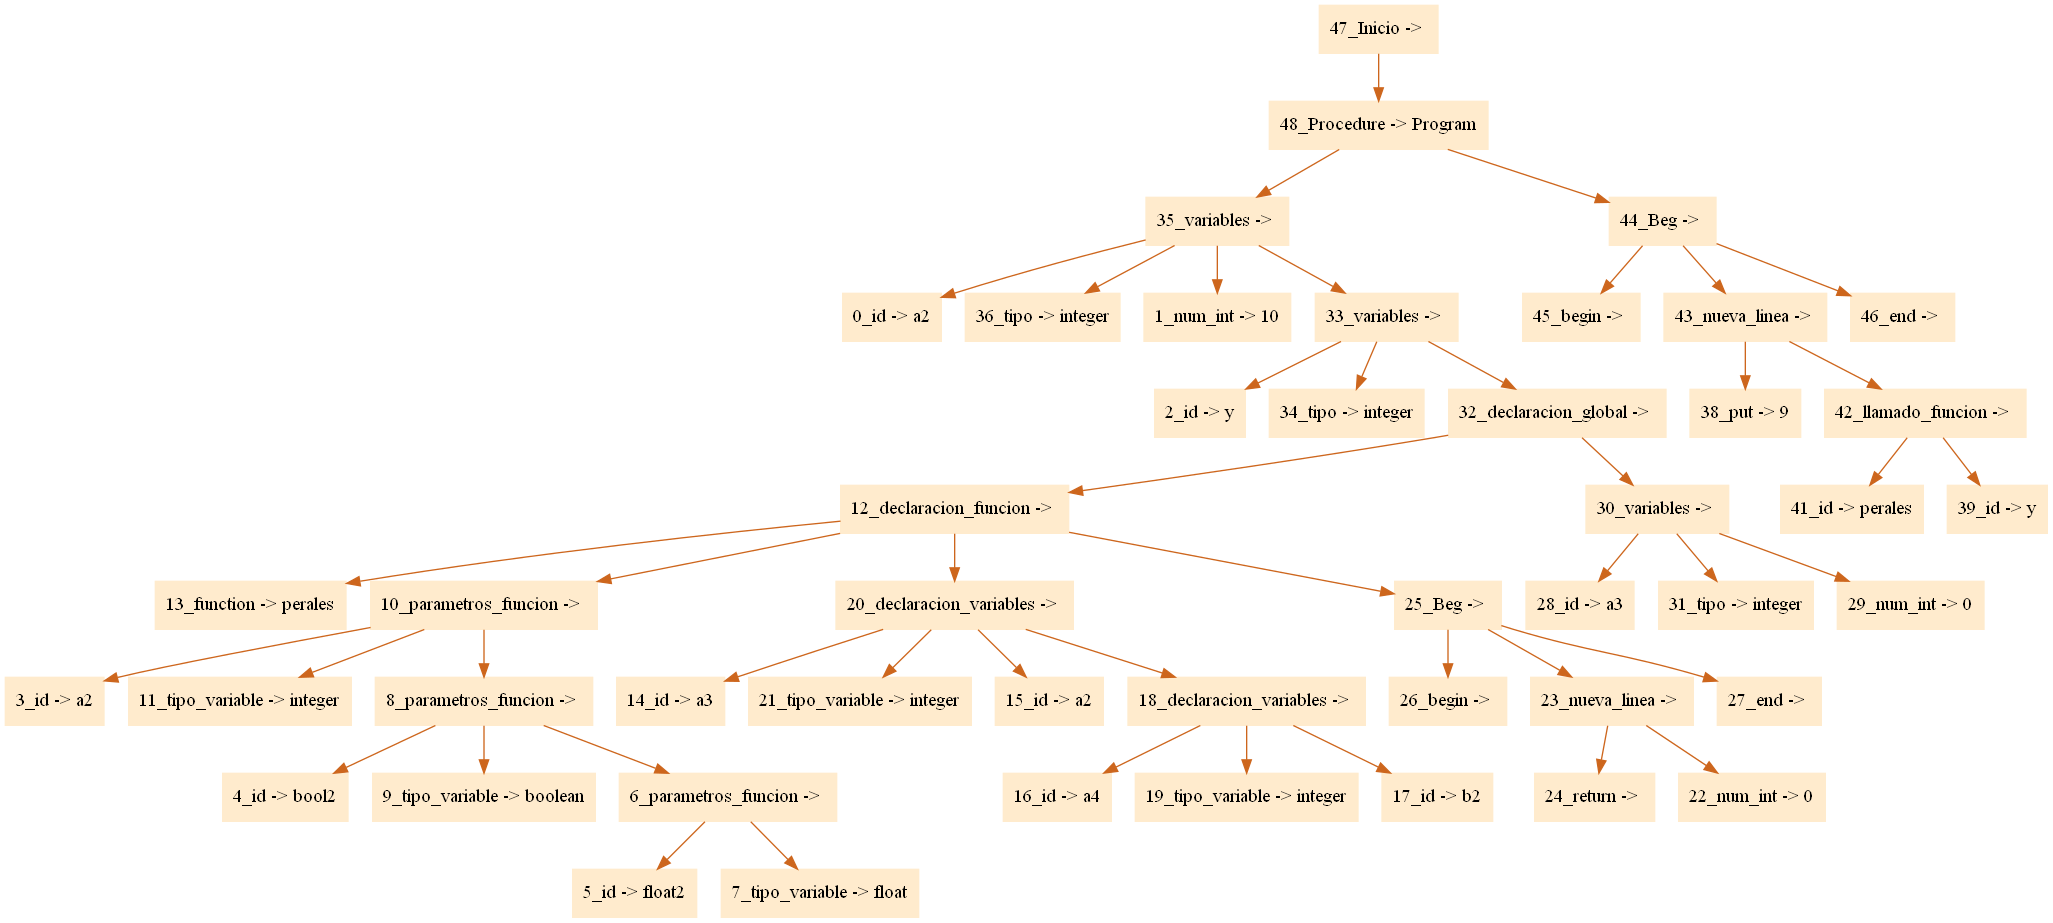
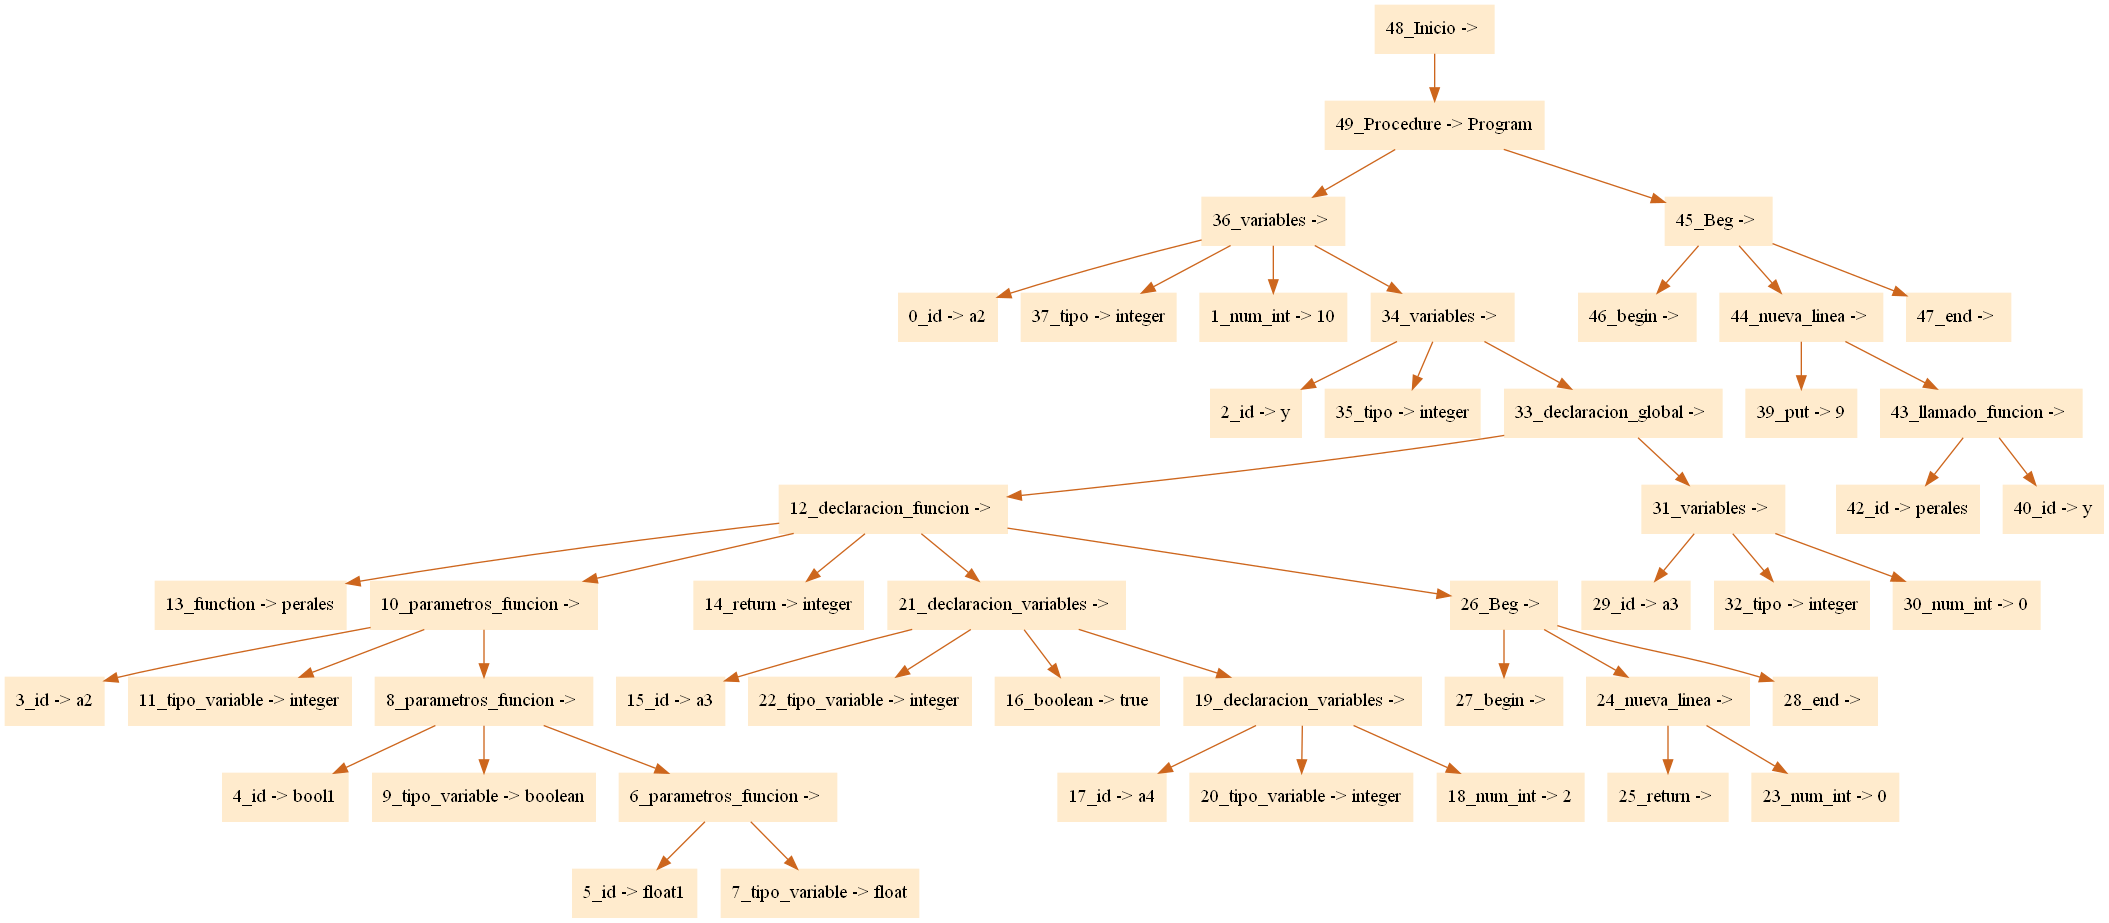
dominio y rango de funciones y agregar variables declaradas en funciones

diff --git a/ProyectoCompiladores/src/proyectocompiladores/InterfazCompilador.java b/ProyectoCompiladores/src/proyectocompiladores/InterfazCompilador.java
@@ -705,7 +705,8 @@ public class InterfazCompilador extends javax.swing.JFrame {
                 SymbolTable.insertar2(id, tipo, (Object) valor, false, false, ambito);
             }
             if (hoja.getNombre().equals("declaracion_funcion")) {
-                recorrerDominio(hoja, "", hoja.getHijos().get(0).getValor(), ambito + "." + hoja.getHijos().get(0).getValor());
+                recorrerDominio(hoja, "", hoja.getHijos().get(0).getValor(), ambito + "." + hoja.getHijos().get(0).getValor(),
+                        hoja.getHijos().get(2).getValor());
             }
             recorrer(hoja, ambito);
         }
@@ -732,7 +733,7 @@ public class InterfazCompilador extends javax.swing.JFrame {
         return contador;
     }
 
-    public void recorrerDominio(Nodo padre, String tipo, String id, String ambito) {
+    public void recorrerDominio(Nodo padre, String tipo, String id, String ambito, String rango) {
         for (Nodo hoja : padre.getHijos()) {
             if (hoja.getNombre().equals("parametros_funcion")) {
                 tipo += hoja.getHijos().get(1).getValor() + "x";
@@ -746,10 +747,24 @@ public class InterfazCompilador extends javax.swing.JFrame {
                     SymbolTable.insertar2(hoja.getHijos().get(0).getValor(), hoja.getHijos().get(1).getValor(),
                             "null", false, false, id);
                 }
-                recorrerDominio(hoja, tipo, id, ambito);
+                recorrerDominio(hoja, tipo, id, ambito, rango);
+            }
+            if (hoja.getNombre().equals("declaracion_variables")) {
+                String idDeclaracion, tipoDeclaracion, valorDeclaracion;
+                idDeclaracion = hoja.getHijos().get(0).getValor();
+                tipoDeclaracion = hoja.getHijos().get(1).getValor();
+                /*if (hoja.getHijos().get(2).getNombre().equals("")) {
+                    valorDeclaracion = hoja.getHijos().get(2).getValor();
+                } else {
+                   
+                }*/
+                valorDeclaracion = "0";
+                SymbolTable.insertar2(idDeclaracion, tipoDeclaracion,
+                        valorDeclaracion, false, false, ambito);
+                recorrerDominio(hoja, tipo, id, ambito, rango);
             }
         }
-        SymbolTable.insertar2(id, tipo.substring(0, tipo.length() - 1), "", false, true, ambito);
+        SymbolTable.insertar2(id, tipo.substring(0, tipo.length() - 1) + " -> " + rango, "", false, true, ambito);
         System.out.println(tipo);
     }
 }

diff --git a/ProyectoCompiladores/src/proyectocompiladores/Sintax.java b/ProyectoCompiladores/src/proyectocompiladores/Sintax.java
@@ -1,7 +1,7 @@
 
 //----------------------------------------------------
 // The following code was generated by CUP v0.11a beta 20060608
-// Thu Nov 04 19:19:47 CST 2021
+// Thu Nov 04 22:50:16 CST 2021
 //----------------------------------------------------
 
 package proyectocompiladores;
@@ -11,7 +11,7 @@ import java.util.*;
 import java.io.*;
 
 /** CUP v0.11a beta 20060608 generated parser.
-  * @version Thu Nov 04 19:19:47 CST 2021
+  * @version Thu Nov 04 22:50:16 CST 2021
   */
 public class Sintax extends java_cup.runtime.lr_parser {
 
@@ -5129,6 +5129,10 @@ hijoFuncion.setNumNodo(parser.contador++);
 hijoFuncion.setValor(id.toString());
 tmp.addHijo((Nodo) hijoFuncion);
 tmp.addHijo((Nodo) pm);
+Nodo tipoFuncion = new Nodo("return");
+tipoFuncion.setNumNodo(parser.contador++);
+tipoFuncion.setValor(tipo_var.toString());
+tmp.addHijo((Nodo) tipoFuncion);
 RESULT = tmp;
 
               CUP$Sintax$result = parser.getSymbolFactory().newSymbol("funcion",19, ((java_cup.runtime.Symbol)CUP$Sintax$stack.elementAt(CUP$Sintax$top-7)), ((java_cup.runtime.Symbol)CUP$Sintax$stack.peek()), RESULT);

diff --git a/ProyectoCompiladores/src/proyectocompiladores/sym.java b/ProyectoCompiladores/src/proyectocompiladores/sym.java
@@ -1,7 +1,7 @@
 
 //----------------------------------------------------
 // The following code was generated by CUP v0.11a beta 20060608
-// Thu Nov 04 19:19:47 CST 2021
+// Thu Nov 04 22:50:16 CST 2021
 //----------------------------------------------------
 
 package proyectocompiladores;
